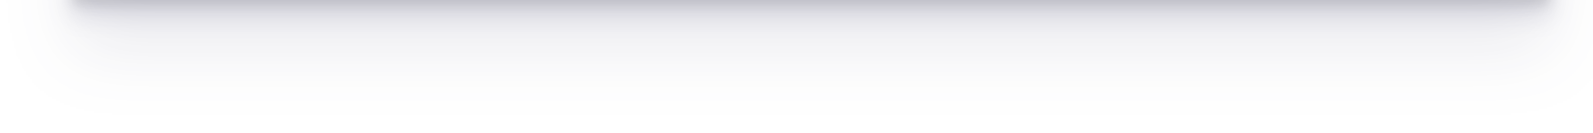
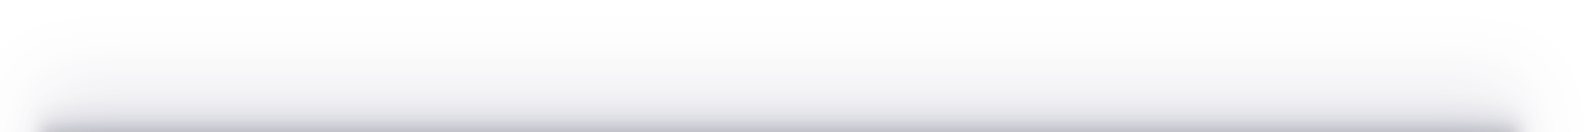
底部导航栏样式完成
1.全局样式通用
2.所以小程序能不能自定义组件来给页面使用？
3.添加字体文件

Changed region(s): [[0.0308, 0.0, 0.9862, 0.1515], [0.0, 0.8485, 0.9553, 1.0]]

diff --git a/pages/map/map.js b/pages/map/map.js
@@ -59,7 +59,17 @@ var controls = [
 			height: 56
 		},
 		clickable: true
-	}
+	},
+  {
+    id: 3,
+    iconPath: '/img/shadow.png',
+    position: {
+      left: 0,
+      top: 0,
+      width: 20,
+      height: 50
+    }
+  }
 ]
 
 var mapSize = {
@@ -138,10 +148,13 @@ Page({
  		let device = Device.get()
  		this.data.mapSize.width = device.width
  		this.data.mapSize.height = device.height
- 		this.data.controls[0].position.top = this.data.mapSize.height - 80
-      this.data.controls[1].position.top = this.data.mapSize.height - 145
-      this.data.controls[2].position.top = this.data.mapSize.height - 80
-      this.data.controls[2].position.left = this.data.mapSize.width / 2 - 60
+ 		this.data.controls[0].position.top = this.data.mapSize.height - 136
+    this.data.controls[1].position.top = this.data.mapSize.height - 201
+    this.data.controls[2].position.top = this.data.mapSize.height - 136
+    this.data.controls[2].position.left = this.data.mapSize.width / 2 - 60
+    this.data.controls[3].position.width = this.data.mapSize.width * 1.2
+    this.data.controls[3].position.left = this.data.mapSize.width * (-0.1)
+    this.data.controls[3].position.top = this.data.mapSize.height - 98
  	},
  	onLoad() {
  		let that = this;
